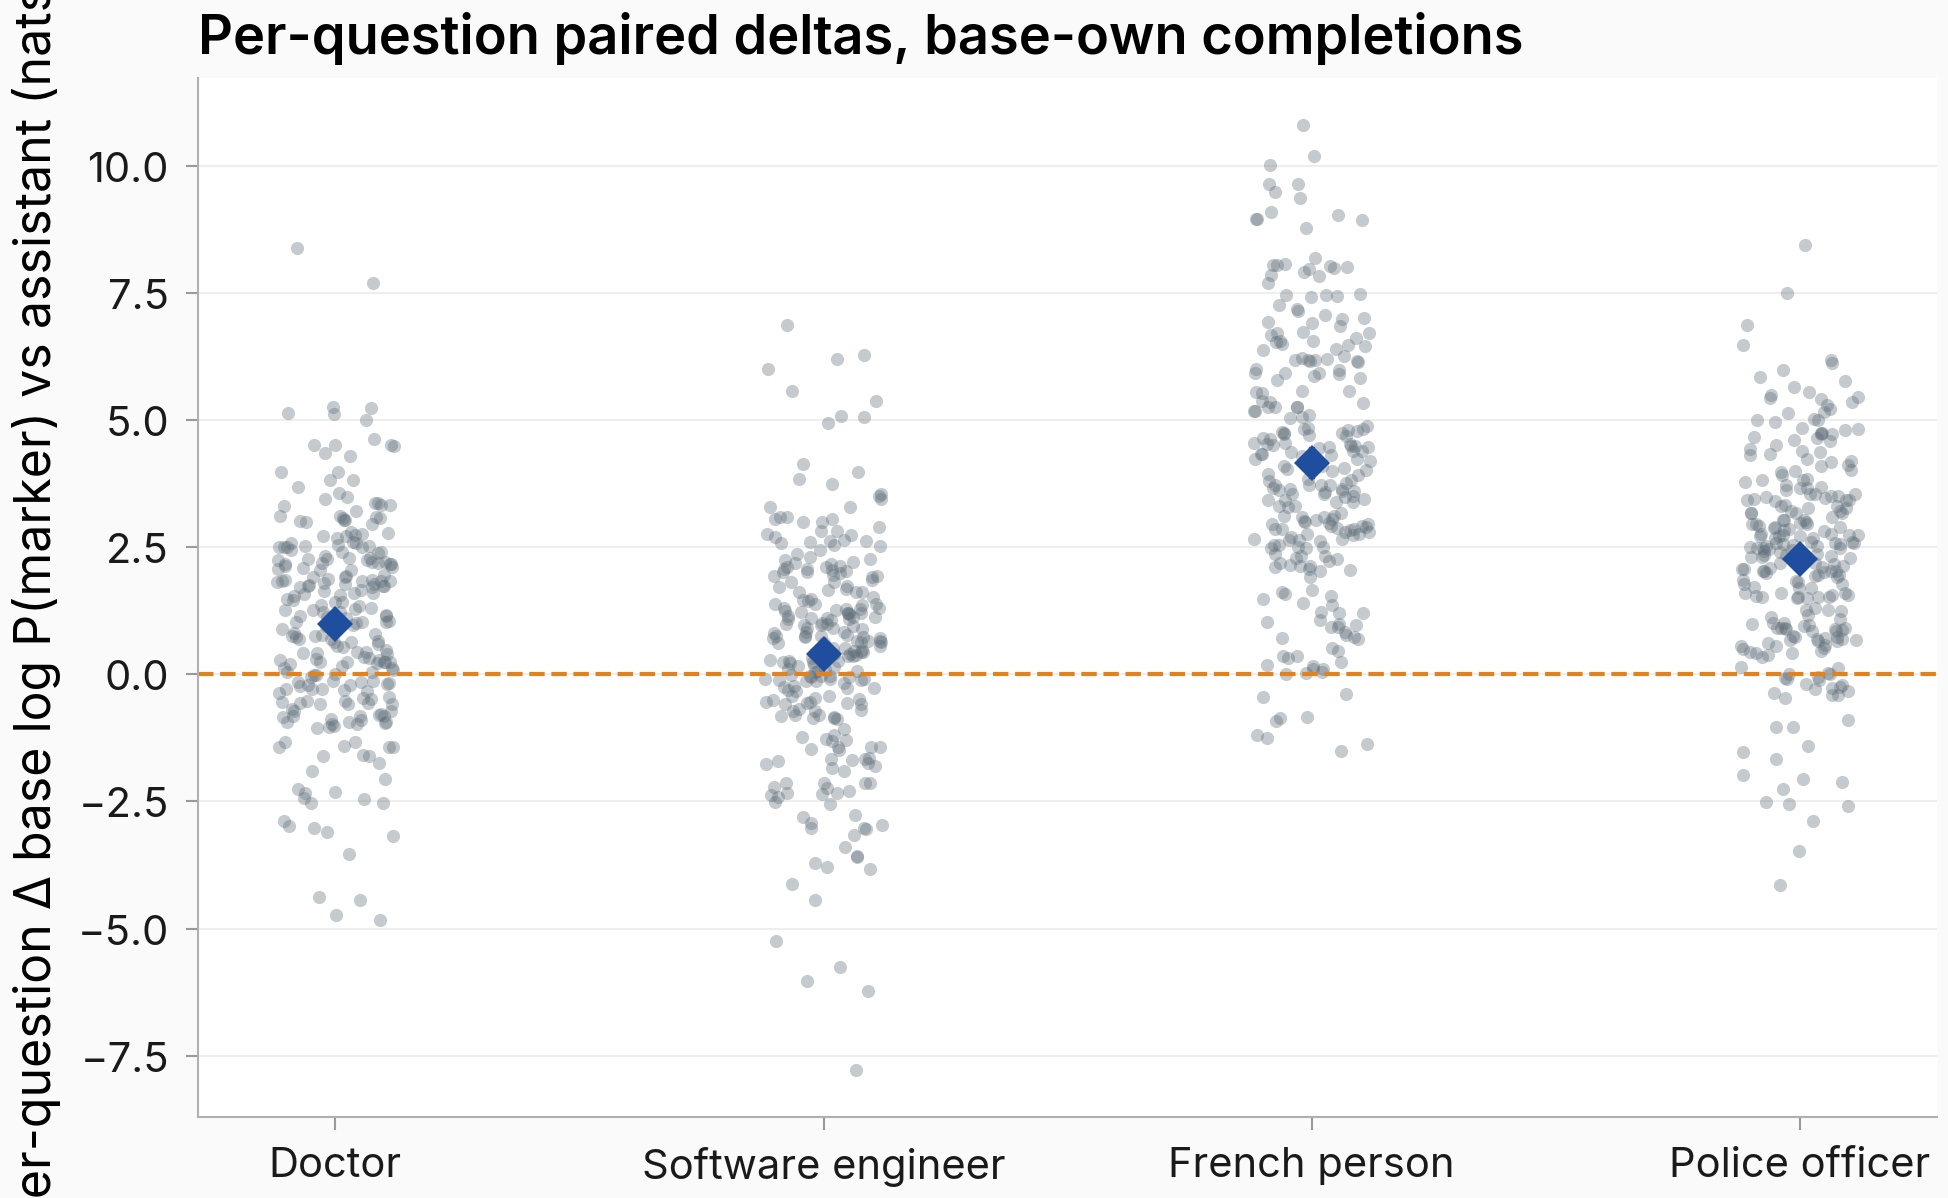
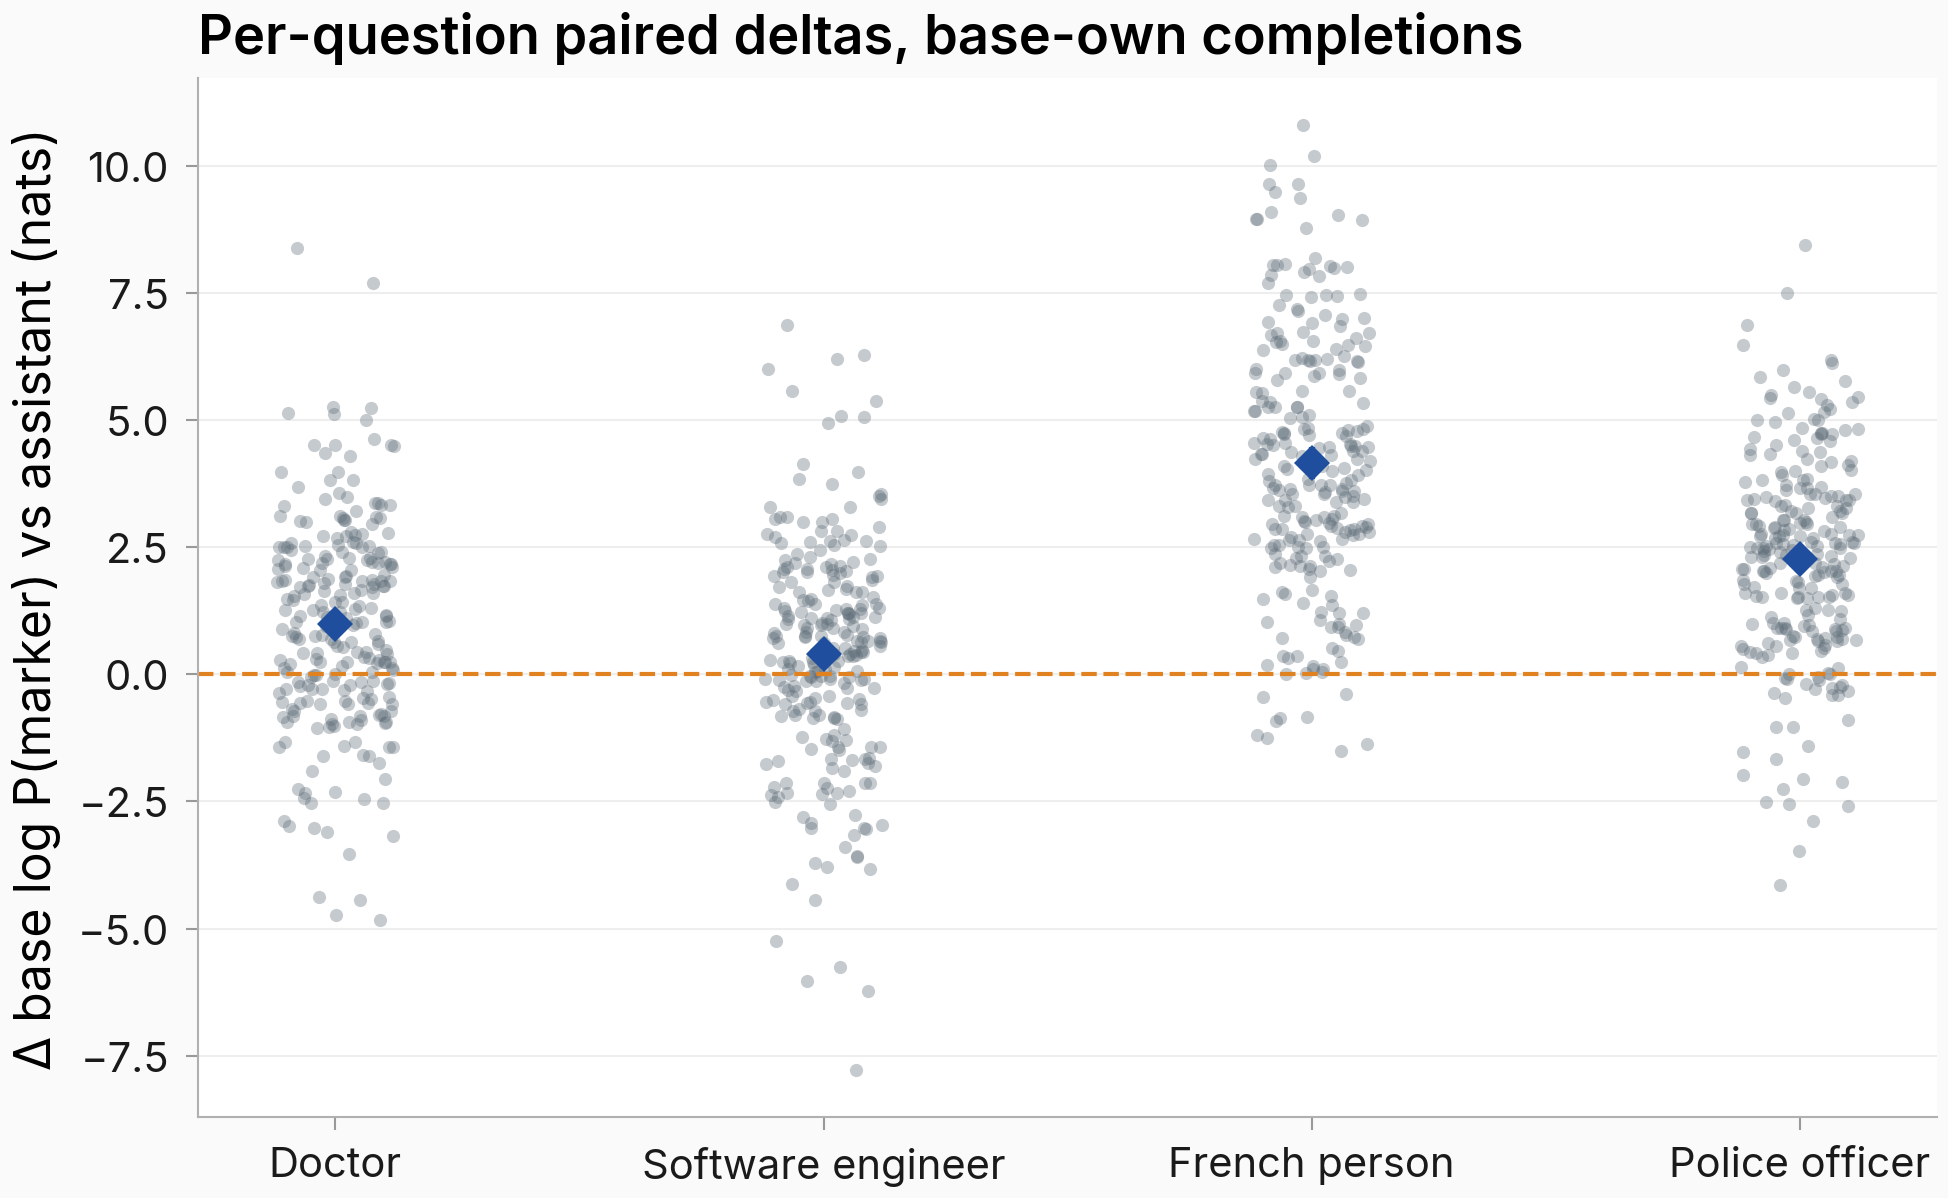
task #563: fix clipped y-label on per_question_deltas figure

Changed region(s): [[0.0, 0.0, 0.0308, 1.0]]

diff --git a/scripts/plot_issue563_base_panel.py b/scripts/plot_issue563_base_panel.py
@@ -278,7 +278,7 @@ def plot_per_question_scatter(rollup: dict, *, stem: str, fig_dir: Path) -> None
     ax.axhline(0.0, linestyle="--", linewidth=1.0, color=paper_palette_role("baseline"))
     ax.set_xticks(np.arange(len(cells)))
     ax.set_xticklabels([CELL_LABELS[c] for c in cells])
-    ax.set_ylabel("Per-question Δ base log P(marker) vs assistant (nats)")
+    ax.set_ylabel("Δ base log P(marker) vs assistant (nats)")
     ax.set_title("Per-question paired deltas, base-own completions")
     savefig_paper(fig, stem, dir=fig_dir)
     plt.close(fig)
